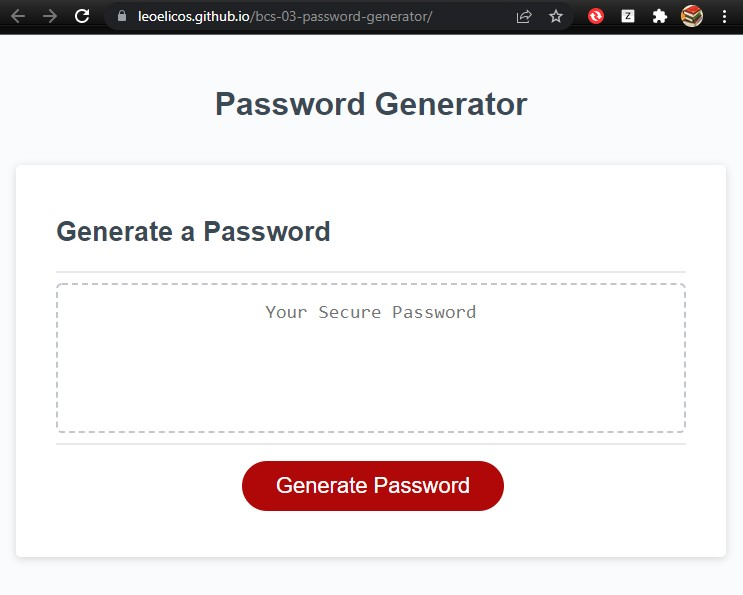
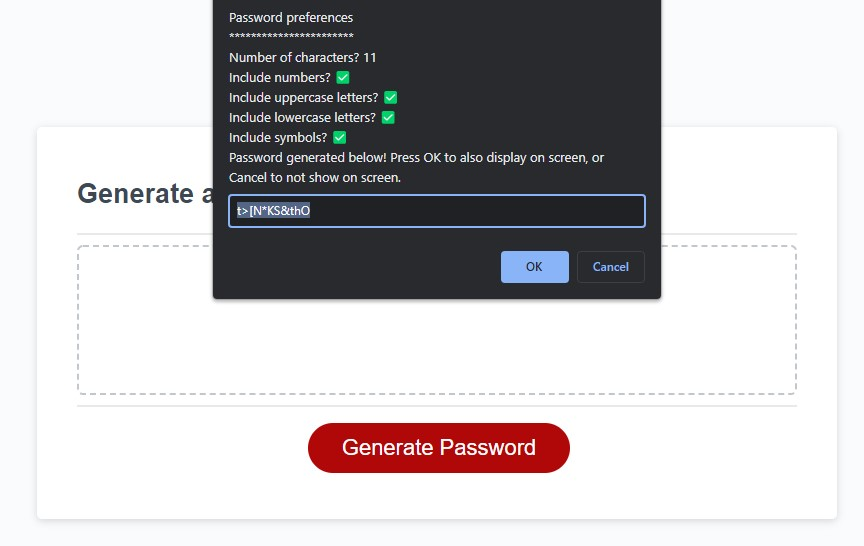
Consolidated JS, update screenshot to readme

diff --git a/scripts/script.js b/scripts/script.js
@@ -1,4 +1,5 @@
-// Assignment Code
+// this Javascript document holds the code to run the Password Generator defined in index.html and style.css
+
 var generateBtn = document.querySelector('#generate');
 
 // Write password to the #password input
@@ -12,192 +13,204 @@ function writePassword() {
 // Add event listener to generate button
 generateBtn.addEventListener('click', writePassword);
 
-// Object preferences — an index of functions to hold user preferences
-var preferences = {
-	passwordLength: 0,
-	randomNumbers: true,
-	randomUpperLetters: true,
-	randomLowerLetters: true,
-	randomSymbols: true,
+// preference — global object to store user preference
+var preference = {
+	characters: 0,
+	numbers: true,
+	upperLetters: true,
+	lowerLetters: true,
+	symbols: true,
 };
 
-// get user preferences
-function generatePassword() {
-	// password length
-	preferences.passwordLength = window.prompt('Password Length\n\nType a number from 8 to 128 and press OK.', '8');
+const minCharacters = 8;
+const maxCharacters = 128;
+var validations = '';
 
-	// valdiate data
-	if (preferences.passwordLength == null) {
-		// null
-		window.alert('Bye\n');
-		return '';
-	} else if (+preferences.passwordLength >= 8 && +preferences.passwordLength <= 128) {
-		// valid
-		window.alert('Password length: ' + preferences.passwordLength + ' \n');
-	} else {
-		// invalid
-		while (!(+preferences.passwordLength >= 8 && +preferences.passwordLength <= 128)) {
-			if (preferences.passwordLength == null) {
-				// cancel
-				window.alert('Bye\n');
-				return '';
-			}
-			preferences.passwordLength = window.prompt('You entered ' + preferences.passwordLength + '. Do try again.\nType a number from 8 to 128 and press OK.\n', '8');
-		}
-	}
-
-	// include numbers
-	preferences.randomNumbers = window.prompt('Include numbers?\n\nType Y for Yes and N for No.\nEnter your choice and press OK, or cancel', 'Y');
-
-	if (preferences.randomNumbers == null) {
-		// user cancel
-		window.alert('Bye ✌🏻\n');
-		return '';
-	} else if (preferences.randomNumbers == 'Y' || preferences.randomNumbers == 'y') {
-		// user valid
-		preferences.randomNumbers = true;
-		window.alert('Okay, including numbers.\n');
-	} else if (preferences.randomNumbers == 'N' || preferences.randomNumbers == 'n') {
-		// user valid
-		preferences.randomNumbers = false;
-		window.alert('Okay, no numbers.\n');
-	} else {
-		// user invalid
-		while (preferences.randomNumbers !== 'Y' && preferences.randomNumbers !== 'y' && preferences.randomNumbers !== 'N' && preferences.randomNumbers !== 'n') {
-			if (preferences.randomNumbers == null) {
-				// user pressed cancel
-				window.alert('Bye\n');
-				return '';
-			}
-			preferences.randomNumbers = window.prompt('You entered ' + preferences.randomNumbers + '. Do try again.\nInclude numbers?\n\nType Y for Yes and N for No.\nEnter your choice and press OK, or cancel', 'Y');
-		}
-	}
-
-	// include uppercase letters
-	preferences.randomUpperLetters = window.prompt('Include uppercase letters?\n\nType Y for Yes and N for No.\nEnter your choice and press OK, or cancel', 'Y');
-
-	if (preferences.randomUpperLetters == null) {
-		// user cancel
-		window.alert('Bye ✌🏻\n');
-		return '';
-	} else if (preferences.randomUpperLetters == 'Y' || preferences.randomUpperLetters == 'y') {
-		// user valid
-		preferences.randomUpperLetters = true;
-		window.alert('Okay, include uppercase letters.\n');
-	} else if (preferences.randomUpperLetters == 'N' || preferences.randomUpperLetters == 'n') {
-		// user valid
-		preferences.randomUpperLetters = false;
-		window.alert('Okay, no uppercase letters.\n');
-	} else {
-		// user invalid
-		while (preferences.randomUpperLetters !== 'Y' && preferences.randomUpperLetters !== 'y' && preferences.randomUpperLetters !== 'N' && preferences.randomUpperLetters !== 'n') {
-			if (preferences.randomUpperLetters == null) {
-				// user pressed cancel
-				window.alert('Bye\n');
-				return '';
-			}
-			preferences.randomUpperLetters = window.prompt('You entered ' + preferences.randomUpperLetters + '. Do try again.\nInclude uppercase letters?\n\nType Y for Yes and N for No.\nEnter your choice and press OK, or cancel', 'Y');
-		}
-	}
-
-	// include lowercase letters
-	preferences.randomLowerLetters = window.prompt('Include lowercase letters?\n\nType Y for Yes and N for No.\nEnter your choice and press OK, or cancel', 'Y');
-
-	if (preferences.randomLowerLetters == null) {
-		// user cancel
-		window.alert('Bye ✌🏻\n');
-		return '';
-	} else if (preferences.randomLowerLetters == 'Y' || preferences.randomLowerLetters == 'y') {
-		// user valid
-		preferences.randomLowerLetters = true;
-		window.alert('Okay, include lowercase letters.\n');
-	} else if (preferences.randomLowerLetters == 'N' || preferences.randomLowerLetters == 'n') {
-		// user valid
-		preferences.randomLowerLetters = false;
-		window.alert('Okay, no lowercase letters.\n');
-	} else {
-		// user invalid
-		while (preferences.randomLowerLetters !== 'Y' && preferences.randomLowerLetters !== 'y' && preferences.randomLowerLetters !== 'N' && preferences.randomLowerLetters !== 'n') {
-			if (preferences.randomLowerLetters == null) {
-				// user pressed cancel
-				window.alert('Bye\n');
-				return '';
-			}
-			preferences.randomLowerLetters = window.prompt('You entered ' + preferences.randomLowerLetters + '. Do try again.\nInclude lowercase letters?\n\nType Y for Yes and N for No.\nEnter your choice and press OK, or cancel', 'Y');
-		}
-	}
-
-	// include symbols
-	preferences.randomSymbols = window.prompt('Include symbols?\n\nType Y for Yes and N for No.\nEnter your choice and press OK, or cancel', 'Y');
-
-	if (preferences.randomSymbols == null) {
-		// user cancel
-		window.alert('Bye ✌🏻\n');
-		return '';
-	} else if (preferences.randomSymbols == 'Y' || preferences.randomSymbols == 'y') {
-		// user valid
-		preferences.randomSymbols = true;
-		window.alert('Okay, include symbols.\n');
-	} else if (preferences.randomSymbols == 'N' || preferences.randomSymbols == 'n') {
-		// user valid
-		preferences.randomSymbols = false;
-		window.alert('Okay, no symbols.\n');
-	} else {
-		// user invalid
-		while (preferences.randomSymbols !== 'Y' && preferences.randomSymbols !== 'y' && preferences.randomSymbols !== 'N' && preferences.randomSymbols !== 'n') {
-			if (preferences.randomSymbols == null) {
-				// user pressed cancel
-				window.alert('Bye\n');
-				return '';
-			}
-			preferences.randomSymbols = window.prompt('You entered ' + preferences.randomSymbols + '. Do try again.\nInclude symbols?\n\nType Y for Yes and N for No.\nEnter your choice and press OK, or cancel', 'Y');
-		}
-	}
-	var finalPassword = getPassword(preferences.passwordLength, preferences.randomNumbers, preferences.randomUpperLetters, preferences.randomLowerLetters, preferences.randomSymbols);
-
-	return finalPassword;
+function cancelMessage() {
+	window.alert(validations + '\nYou cancelled. Bye ✌🏻\n');
 }
 
-// returns a password based on the argument of number passwordLength, boolean randomNumbers, boolean randomUpperLetters, boolean randomLowerLetters, boolean randomSymbols
-function getPassword(passwordLength, randomNumbers, randomUpperLetters, randomLowerLetters, randomSymbols) {
+// returns a password as a string
+function generatePassword() {
+	validations = 'Password preferences\n***********************\n';
+	validations += 'Number of characters? ';
+
+	// get user preference for password length
+	preference.characters = window.prompt(validations + '(8–128)', '128');
+
+	// validate data
+	if (preference.characters == null) {
+		// user cancelled
+		cancelMessage();
+		return '';
+	}
+	while (!(+preference.characters >= minCharacters && +preference.characters <= maxCharacters)) {
+		// user entered invalid number, so keep trying
+		preference.characters = window.prompt(`${validations}\n"${preference.characters}" is invalid. Type a number from 8 to 128`, '8');
+		if (preference.characters == null) {
+			// user cancelled
+			cancelMessage();
+			return '';
+		}
+	}
+	if (+preference.characters >= minCharacters && +preference.characters <= maxCharacters) {
+		// user was valid
+		validations += preference.characters + '\n';
+	}
+
+	// get user preference for including numbers
+	validations += 'Include numbers? ';
+	preference.numbers = window.prompt(validations + ' (y/n)', 'y');
+
+	if (preference.numbers == null) {
+		// user cancelled
+		cancelMessage();
+		return '';
+	}
+	while (preference.numbers.toLowerCase() !== 'y' && preference.numbers.toLowerCase() !== 'n') {
+		// user entered invalid character, so keep trying
+		preference.numbers = window.prompt(`${validations}\n"${preference.numbers}" is invalid. Type (y/n)`, 'y');
+		if (preference.numbers == null) {
+			// user cancelled
+			cancelMessage();
+			return '';
+		}
+	}
+	if (preference.numbers.toLowerCase() == 'y') {
+		// user was valid
+		validations += '✅\n';
+		preference.numbers = true;
+	} else if (preference.numbers.toLowerCase() == 'n') {
+		// user was valid
+		validations += '🚫\n';
+		preference.numbers = false;
+	}
+
+	// get user preference for including uppercase letters
+	validations += 'Include uppercase letters? ';
+	preference.upperLetters = window.prompt(validations + ' (y/n)', 'y');
+
+	if (preference.upperLetters == null) {
+		// user cancelled
+		cancelMessage();
+		return '';
+	}
+
+	while (preference.upperLetters.toLowerCase() !== 'y' && preference.upperLetters.toLowerCase() !== 'n') {
+		// user entered invalid character, so keep trying
+		preference.upperLetters = window.prompt(`${validations}\n"${preference.upperLetters}" is invalid. Type (y/n)`, 'y');
+		if (preference.upperLetters == null) {
+			// user cancelled
+			cancelMessage();
+			return '';
+		}
+	}
+
+	if (preference.upperLetters.toLowerCase() == 'y') {
+		// user was valid
+		validations += '✅\n';
+		preference.upperLetters = true;
+	} else if (preference.upperLetters.toLowerCase() == 'n') {
+		// user was valid
+		validations += '🚫\n';
+		preference.upperLetters = false;
+	}
+
+	// get user preference for including lowercase letters
+	validations += 'Include lowercase letters? ';
+	preference.lowerLetters = window.prompt(validations + ' (y/n)', 'y');
+
+	if (preference.lowerLetters == null) {
+		// user cancelled
+		cancelMessage();
+		return '';
+	}
+
+	while (preference.lowerLetters.toLowerCase() !== 'y' && preference.lowerLetters.toLowerCase() !== 'n') {
+		// user entered invalid character, so keep trying
+		preference.lowerLetters = window.prompt(`${validations}\n"${preference.lowerLetters}" is invalid. Type (y/n)`, 'y');
+		if (preference.lowerLetters == null) {
+			// user cancelled
+			cancelMessage();
+			return '';
+		}
+	}
+
+	if (preference.lowerLetters.toLowerCase() == 'y') {
+		// user was valid
+		validations += '✅\n';
+		preference.lowerLetters = true;
+	} else if (preference.lowerLetters.toLowerCase() == 'n') {
+		// user was valid
+		validations += '🚫\n';
+		preference.lowerLetters = false;
+	}
+
+	// get user preference for including symbols
+	validations += 'Include symbols? ';
+	preference.symbols = window.prompt(validations + ' (y/n)', 'y');
+
+	if (preference.symbols == null) {
+		// user cancelled
+		cancelMessage();
+		return '';
+	}
+	while (preference.symbols.toLowerCase() !== 'y' && preference.symbols.toLowerCase() !== 'n') {
+		// user entered invalid character, so keep trying
+		preference.symbols = window.prompt(`${validations}\n"${preference.symbols}" is invalid. Type (y/n)`, 'y');
+		if (preference.symbols == null) {
+			// user cancelled
+			cancelMessage();
+			return '';
+		}
+	}
+	if (preference.symbols.toLowerCase() == 'y') {
+		// user was valid
+		validations += '✅\n';
+		preference.symbols = true;
+	} else if (preference.symbols.toLowerCase() == 'n') {
+		// user was valid
+		validations += '🚫\n';
+		preference.symbols = false;
+	}
+
+	// return a password based on characters, randomNumbers, randomUpperLetters, randomLowerLetters, randomSymbols
+	var finalPassword = getPassword(preference.characters, preference.numbers, preference.upperLetters, preference.lowerLetters, preference.symbols);
+
+	if (finalPassword.length === 0) {
+		validations += 'No numbers, letters or symbols were chosen. Try again?';
+		if (window.confirm(validations) === true) {
+			return generatePassword();
+		} else {
+			cancelMessage();
+			return '';
+		}
+	} else {
+		validations += 'Password generated selected!\nPress OK to also display on screen, or Cancel to not show on screen.';
+		var displayOnScreen = window.prompt(validations, finalPassword);
+		if (displayOnScreen == null) {
+			finalPassword = '';
+		}
+		return finalPassword;
+	}
+}
+
+// return a password based on characters, randomNumbers, randomUpperLetters, randomLowerLetters, randomSymbols
+function getPassword(characters, randomNumbers, randomUpperLetters, randomLowerLetters, randomSymbols) {
 	var randomString = getRandomString(randomNumbers, randomUpperLetters, randomLowerLetters, randomSymbols);
 	var password = '';
-	for (var i = 0; i < passwordLength; i++) {
+	for (var i = 0; i < characters; i++) {
 		password += getRandomCharacter(randomString);
-	}
-	if (password.length === 0) {
-		password += "You didn't choose any character types (numbers, letters, symbols). Try again?";
 	}
 	return password;
 }
 
-// returns one random character based on the booleans that are true
-function getRandomCharacter(randomString) {
-	// user has chosen no character types
-	if (randomString.length === 0) {
-		return '';
-	} else {
-		return randomString[Math.floor(Math.random() * randomString.length)];
-	}
+// make a string of all wanted characters
+function getRandomString(number, upper, lower, symbol) {
+	return (number ? '0123456789' : '') + (upper ? 'ABCDEFGHIJKLMNOPQRSTUVWXYZ' : '') + (lower ? 'abcdefghijklmnopqrstuvwxyz' : '') + (symbol ? '!"#$%&\'()*+,-./:;<=>?@[\\]^_`{|}~' : '');
 }
 
-// make a string of all wanted characters
-function getRandomString(randomNumbers, randomUpperLetters, randomLowerLetters, randomSymbols) {
-	var randomString = '';
-	var i = 0;
-
-	if (randomNumbers === true) {
-		randomString += '0123456789';
-	}
-	if (randomUpperLetters === true) {
-		randomString += 'ABCDEFGHIJKLMNOPQRSTUVWXYZ';
-	}
-	if (randomLowerLetters === true) {
-		randomString += 'abcdefghijklmnopqrstuvwxyz';
-	}
-	if (randomSymbols === true) {
-		randomString += '!"#$%&\'()*+,-./:;<=>?@[\\]^_`{|}~';
-	}
-
-	return randomString;
+// get a random character from argument string, or '' if string empty
+function getRandomCharacter(string) {
+	return string.length === 0 ? '' : string[Math.floor(Math.random() * string.length)];
 }
